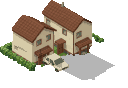
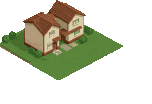
v0.13.2: neue Bilder für Doppelhaus (jetzt 2x2) und Villa
Claude-Session: https://claude.ai/code/session_01Vg4LCLQSsd6zUmqt37DqCy

diff --git a/src/config/buildings.js b/src/config/buildings.js
@@ -277,11 +277,11 @@ export const BUILDINGS = {
   },
   duplex: {
     id: 'duplex', name: 'Doppelhaus', category: 'residential',
-    description: 'Zwei Haushälften unter einem Dach für zusammen 8 Bewohner. Über 5 Bewohner erst mit zwei Nahrungssorten.',
-    footprint: { width: 2, height: 1 },
+    description: 'Zwei Haushälften unter einem Dach mit großem Garten für zusammen 10 Bewohner. Über 6 Bewohner erst mit zwei Nahrungssorten.',
+    footprint: { width: 2, height: 2 },
     buildCost: { money: 5400, planks: 36, stone: 40 },
     requirements: { terrain: SOFT_GROUND, maxSlope: 0.05, roadAccess: true },
-    upkeep: 28, residents: 8, needsVariety: { min: 2, below: 5 },
+    upkeep: 32, residents: 10, needsVariety: { min: 2, below: 6 },
     art: { kind: 'box', wallH: 17, gable: 10, wall: '#cdbb98', roof: '#7a4a32', siding: 0, door: true, windows: true, chimney: true },
   },
   dormitory: {

diff --git a/src/config/gameConfig.js b/src/config/gameConfig.js
@@ -1,6 +1,6 @@
 // Zentrale Spielkonfiguration. Alle Werte hier sind bewusst leicht anpassbar.
 
-export const GAME_VERSION = '0.13.1';
+export const GAME_VERSION = '0.13.2';
 export const SAVE_SCHEMA_VERSION = 7;
 
 export const CONFIG = {

diff --git a/tools/grass_match.py b/tools/grass_match.py
@@ -1,0 +1,36 @@
+"""Gleicht knallgrünen Rasen in Gebäudebildern an das gedämpfte Spielgras an.
+
+Higgsfield malt Gärten oft in hellem Lindgrün; im Spiel hebt sich das als Fläche ab.
+Pixel mit grünem Farbton und hoher Sättigung werden in Helligkeit und Sättigung auf den
+Bereich des Spielgrases gezogen (Farbton bleibt grob erhalten, Hecken bleiben dunkler).
+
+Aufruf: python3 -I tools/grass_match.py sprite [sprite ...]
+"""
+import colorsys
+import json
+import sys
+import numpy as np
+from PIL import Image
+
+man = json.load(open('assets/manifest.json'))['sprites']
+for name in sys.argv[1:]:
+    path = 'assets/' + man[name]['file']
+    a = np.array(Image.open(path).convert('RGBA')).astype(float)
+    H, W = a.shape[:2]
+    n = 0
+    for y in range(H):
+        for x in range(W):
+            if a[y, x, 3] < 255:
+                continue
+            r, g, b = a[y, x, :3] / 255
+            h, l, s = colorsys.rgb_to_hls(r, g, b)
+            if 0.22 < h < 0.42 and s > 0.35 and l > 0.22:
+                # Ziel: Spielgras etwa Farbton 0,27, Sättigung 0,38, Helligkeit 0,30–0,40
+                l2 = 0.24 + (l - 0.22) * 0.45
+                s2 = min(s, 0.42)
+                h2 = h * 0.5 + 0.27 * 0.5
+                r2, g2, b2 = colorsys.hls_to_rgb(h2, l2, s2)
+                a[y, x, :3] = (r2 * 255, g2 * 255, b2 * 255)
+                n += 1
+    Image.fromarray(a.astype(np.uint8), 'RGBA').save(path)
+    print('Rasen angepasst:', name, n)

diff --git a/tools/reshadow.py b/tools/reshadow.py
@@ -20,6 +20,7 @@ from PIL import Image
 
 K = 0.42          # Schattenlänge (in y-Pixeln) je Pixel Höhe; x-Versatz ist doppelt so groß
 ALPHA = 78
+DARKEN_PAD = False   # Abdunklung am Fuß auf der Platte: aus (erzeugte Streifen, wirkt bei Wiederholung doppelt)
 man_path = 'assets/manifest.json'
 man = json.load(open(man_path))
 fps = {k: v for k, v in json.load(open('tools/footprints.json')).items() if not k.startswith('_')}
@@ -125,7 +126,7 @@ for name, (fw, fh) in fps.items():
     o2 = out[:spr.shape[0], :spr.shape[1]]
     o2[m] = spr[m]
     # Schatten auf der Grundplatte nur am Fuß hoher Objekte, leicht abgedunkelt
-    dk = m & shc[:spr.shape[0], :spr.shape[1]] & pad[:spr.shape[0], :spr.shape[1]] & near[:spr.shape[0], :spr.shape[1]]
+    dk = DARKEN_PAD & m & shc[:spr.shape[0], :spr.shape[1]] & pad[:spr.shape[0], :spr.shape[1]] & near[:spr.shape[0], :spr.shape[1]]
     o2[dk, :3] = (o2[dk, :3].astype(int) * 0.8).astype(np.uint8)
     Image.fromarray(out, 'RGBA').save(path)
     print('Schatten:', name, f'Höhe max {int(hcol.max())}', f'{W}x{H} -> {NW}x{NH}')

diff --git a/tools/asset_batch.py b/tools/asset_batch.py
@@ -20,6 +20,7 @@ for it in cfg['items']:
     if it.get('tone'): cmd += ['--tone', it['tone']]
     if it.get('grow'): cmd += ['--grow', str(it['grow'])]
     if it.get('open'): cmd += ['--open', str(it['open'])]
+    if it.get('colors'): cmd += ['--colors', str(it['colors'])]
     if it.get('keep') is not None: cmd += ['--keep', str(it['keep'])]
     os.makedirs(os.path.dirname(it['out']), exist_ok=True)
     res = json.loads(subprocess.check_output(cmd).decode().strip().splitlines()[-1])

diff --git a/docs/ASSETS_STAND_2026-11-17c.md b/docs/ASSETS_STAND_2026-11-17c.md
@@ -1,0 +1,27 @@
+# Asset-Stand 17.11.2026, zweiter Nachtrag (v0.13.2)
+
+Neues Dokument. Die älteren Stände bleiben unverändert.
+
+## Neue Fassungen
+**Doppelhaus** (`duplex_01.png`, 152×104)
+- Neues Bild mit vollständigem Grundstück.
+- Die Grundfläche ist jetzt 2×2 statt 2×1, passend zum quadratischen Garten.
+- Dafür 10 statt 8 Bewohner, Unterhalt 32 Cr. Über 6 Bewohner braucht es zwei Nahrungssorten.
+
+**Stadtvilla** (`villa_01.png`, 148×84)
+- Neues Bild: Der Pool liegt innerhalb des Grundstücks mit Hecke.
+
+## Verarbeitung
+1. `python3 -I tools/asset_batch.py tools/asset_batch_wohnen_3b.json`
+   - Ohne `--grow`, weil glatte Flächen wie der Pool sonst verschwinden.
+   - Mit 64 bzw. 200 Farben, weil das Poolblau bei 32 Farben zu Grün wurde.
+2. `python3 -I tools/flatten_plinth.py` (Sockel: Doppelhaus 8 px, Villa 3 px)
+3. `python3 -I tools/grass_match.py duplex villa`
+   - Neues Werkzeug: zieht knallgrünen Rasen auf das gedämpfte Spielgras.
+4. `python3 -I tools/reshadow.py duplex villa`
+
+## Werkzeug-Änderungen
+- **`reshadow.py`:**
+  - Neu: Man kann einzelne Sprites angeben.
+  - Die Abdunklung auf der Platte ist abgeschaltet. Sie erzeugte Streifen und wirkte bei jedem Lauf erneut.
+- **`asset_batch.py`:** Neues Feld `colors` für die Farbanzahl.

diff --git a/README.md b/README.md
@@ -1,7 +1,7 @@
 # OUTPOST
 
 Isometrisches Endlos-Aufbauspiel auf einem neu besiedelten Planeten.
-Stand: **Version 0.13.1** – Phase 1–4, Stufe A (Versorgung), Stufe B (Logistik), Brücken, Computer-Nachbarn, Handel, Cheat-Modus, dazu Drohnenflugplatz, neue Wohnhäuser, Deko und Tag/Nacht (siehe docs/ENTSCHEIDUNGEN_LEBEN_2.md).
+Stand: **Version 0.13.2** – Phase 1–4, Stufe A (Versorgung), Stufe B (Logistik), Brücken, Computer-Nachbarn, Handel, Cheat-Modus, dazu Drohnenflugplatz, neue Wohnhäuser, Deko und Tag/Nacht (siehe docs/ENTSCHEIDUNGEN_LEBEN_2.md).
 
 Der vollständige Arbeitsauftrag steht unverändert in `CLAUDE.md`.
 Entscheidungen, die davon abweichen oder ihn konkretisieren, stehen in `docs/ENTSCHEIDUNGEN.md` (Phase 1)
